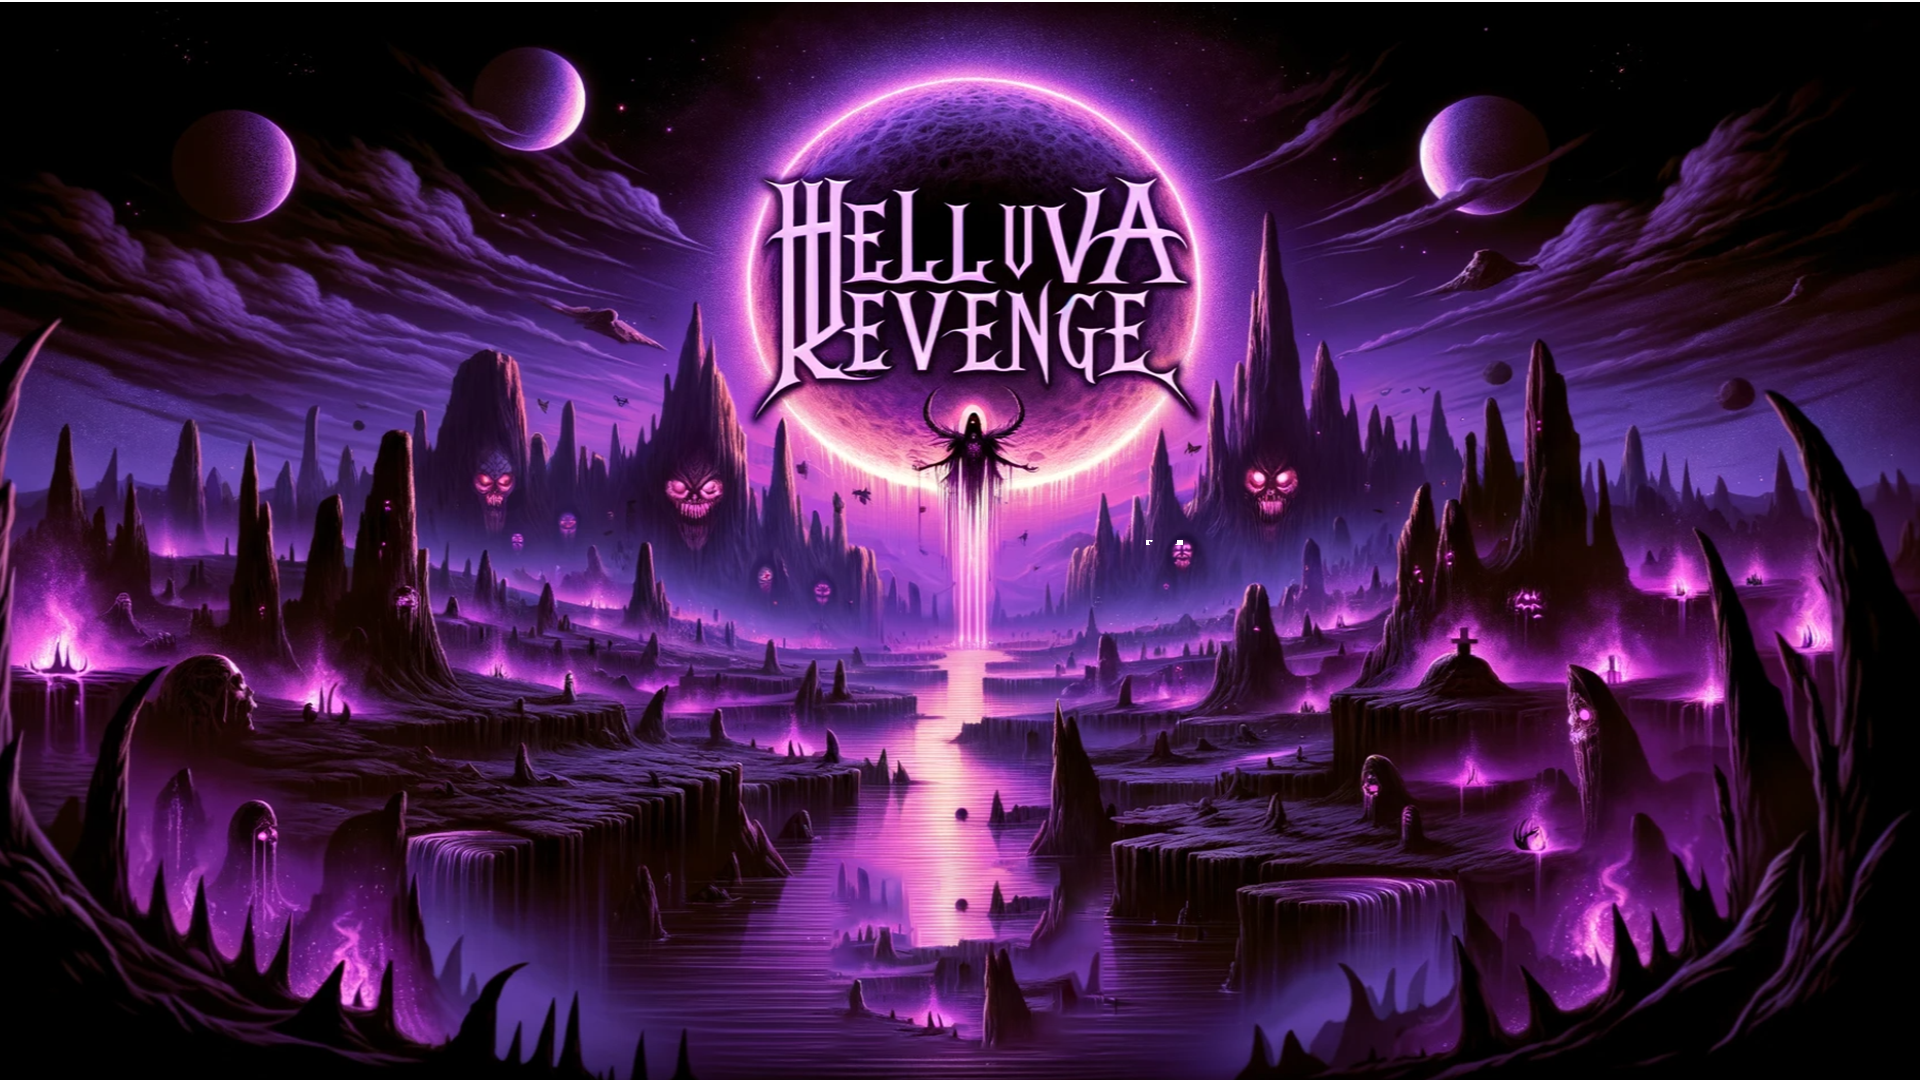
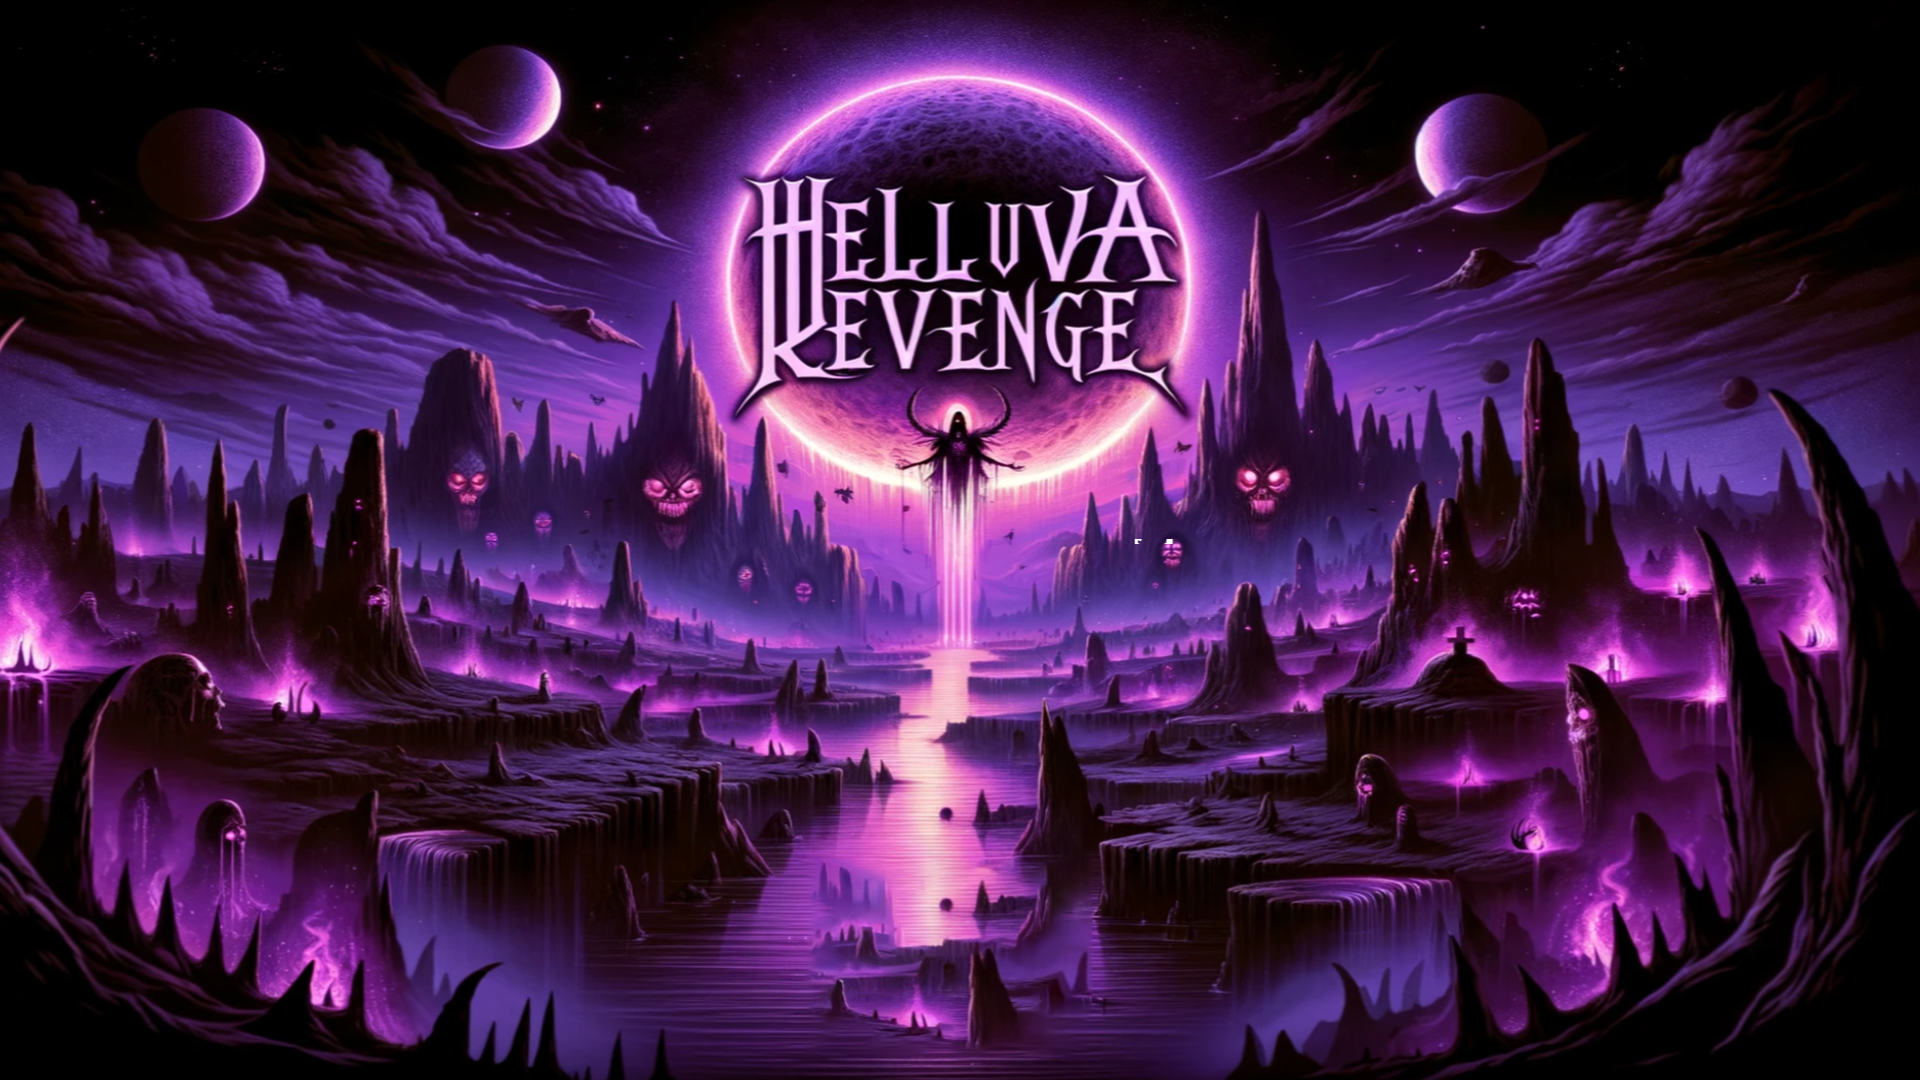
FIX : Button et background
- Fix de l'état des buttons lorsqu'on clique dessus
- Background recentré

diff --git a/GameObjectLib/src/Scenes/SceneMainMenu.cpp b/GameObjectLib/src/Scenes/SceneMainMenu.cpp
@@ -69,10 +69,10 @@ void SceneMainMenu::CreateSceneButtonsMenu()
 	//creditsButton = BuilderGameObject::CreateButtonGameObject("Credits", widthScreen / 1.1, heightScreen / 10, 18);
 	
 	backButton = BuilderGameObject::CreateButtonGameObject("back", widthScreen / 10, heightScreen / 10, 0.5f, 0.5f, 0, 0, 1, 3, AssetManager::GetAsset("ButtonsMenu"), 40);
-	englishButton = BuilderGameObject::CreateButtonGameObject("englishButton", widthScreen / 3, heightScreen / 1.2, 0.5f, 0.5f, 0, 0, 1, 3, AssetManager::GetAsset("ButtonsMenu"), 40);
-	frenchButton = BuilderGameObject::CreateButtonGameObject("frenchButton", widthScreen / 1.2, heightScreen / 1.2, 0.5f, 0.5f, 0, 0, 1, 3, AssetManager::GetAsset("ButtonsMenu"), 40);
-	sliderFPS = BuilderGameObject::CreateSliderGameObject("sliderFps", widthScreen / 2, heightScreen / 2, 1200, 40, 50, 50, 20, WindowManager::GetFps(), WindowManager::GetMinFps(), WindowManager::GetMaxFps());
-	sliderVolume = BuilderGameObject::CreateSliderGameObject("sliderVolume", widthScreen / 2, heightScreen / 1.5, 1200, 40, 50, 50, 20, AudioManager::GetVolume(), AudioManager::GetMaxVolume());
+	englishButton = BuilderGameObject::CreateButtonGameObject("englishButton", widthScreen / 2.4, heightScreen / 1.2, 0.5f, 0.5f, 0, 0, 1, 3, AssetManager::GetAsset("ButtonsMenu"), 40);
+	frenchButton = BuilderGameObject::CreateButtonGameObject("frenchButton", widthScreen / 1.7, heightScreen / 1.2, 0.5f, 0.5f, 0, 0, 1, 3, AssetManager::GetAsset("ButtonsMenu"), 40);
+	sliderFPS = BuilderGameObject::CreateSliderGameObject("slider Fps", widthScreen / 2, heightScreen / 2, 1200, 40, 50, 50, 20, WindowManager::GetFps(), WindowManager::GetMinFps(), WindowManager::GetMaxFps());
+	sliderVolume = BuilderGameObject::CreateSliderGameObject("slider Volume", widthScreen / 2, heightScreen / 1.5, 1200, 40, 50, 50, 20, AudioManager::GetVolume(), AudioManager::GetMaxVolume());
 	//signupLoginButton = CreateButtonGameObject("Signup Login", widthScreen / 1.2, heightScreen / 1.2, 30)
 	CameraManager::SetCenter(widthScreen / 2, heightScreen / 2);
 }
@@ -82,18 +82,21 @@ void SceneMainMenu::Update(const float& _delta)
 	Scene::Update(_delta);
 	if (isFadeIn)
 	{
-		if(FadeIn(_delta)) isFadeIn = false;
+		playButton->SetActive(false);
+		worldButton->SetActive(false);
+		optionsButton->SetActive(false);
+		quitButton->SetActive(false);
+		if (FadeIn(_delta))
+		{
+			isFadeIn = false;
+			playButton->SetActive(true);
+			worldButton->SetActive(true);
+			optionsButton->SetActive(true);
+			quitButton->SetActive(true);
+		}
 	} 
 	else
 	{
-		if (LanguageManager::GetInstance()->GetLanguage() == "English")
-		{
-			englishButton->GetComponent<Button>()->SetState(Button::Clicked);
-		}
-		if (LanguageManager::GetInstance()->GetLanguage() == "French")
-		{
-			frenchButton->GetComponent<Button>()->SetState(Button::Clicked);
-		}
 		if (playButton->GetComponent<Button>()->IsClicked() || isFadeOut)
 		{
 			isFadeOut = true;
@@ -132,6 +135,7 @@ void SceneMainMenu::Update(const float& _delta)
 			LanguageManager* manager = LanguageManager::GetInstance();
 			manager->SetLanguage("English");
 			manager->GetButton();
+			frenchButton->GetComponent<Button>()->SetState(Button::Normal);
 
 		}
 		else if (frenchButton->GetComponent<Button>()->IsClicked())
@@ -140,6 +144,7 @@ void SceneMainMenu::Update(const float& _delta)
 			LanguageManager* manager = LanguageManager::GetInstance();
 			manager->SetLanguage("Francais");
 			manager->GetButton();
+			englishButton->GetComponent<Button>()->SetState(Button::Normal);
 		}
 	/*	else if (successButton->GetComponent<Button>()->IsClicked())
 		{
@@ -205,6 +210,16 @@ void SceneMainMenu::ActiveOption(const bool& _state)
 	this->englishButton->SetActiveAndVisible(_state);
 	this->frenchButton->SetActiveAndVisible(_state);
 	option = _state;
+	if (LanguageManager::GetInstance()->GetLanguage() == "English")
+	{
+		englishButton->GetComponent<Button>()->SetState(Button::Clicked);
+		frenchButton->GetComponent<Button>()->SetState(Button::Normal);
+	}
+	if (LanguageManager::GetInstance()->GetLanguage() == "French")
+	{
+		frenchButton->GetComponent<Button>()->SetState(Button::Clicked);
+		englishButton->GetComponent<Button>()->SetState(Button::Normal);
+	}
 }
 
 SceneMainMenu::~SceneMainMenu()

diff --git a/GameObjectLib/src/Scenes/SceneOpening.cpp b/GameObjectLib/src/Scenes/SceneOpening.cpp
@@ -11,7 +11,7 @@ void SceneOpening::Preload()
 {
     Scene::Preload();
     AssetManager::AddAsset("HelluvaStudioLogo", "Assets/Graphics/UI/Icons/Helluva_Logo.png");
-    AssetManager::AddAsset("Pegi", "Assets/Graphics/UI/Icons/PEGI_16.png");
+    AssetManager::AddAsset("HellEngine", "Assets/Graphics/UI/Icons/HellEngine.png");
     AssetManager::AddAsset("Warning", "Assets/Graphics/UI/Icons/warning_content.jpg");
 }
 
@@ -27,11 +27,11 @@ void SceneOpening::Create()
     spriteLogo->setScale(1.2, 1.2);
     
    
-    sf::Sprite* spritePegi_16 = new sf::Sprite();
-    spritePegi_16->setTexture(*AssetManager::GetAsset("Pegi"));
-    spritePegi_16->setPosition(widthWindow / 2, heightWindow / 2);
-    spritePegi_16->setOrigin(spritePegi_16->getLocalBounds().width / 2, spritePegi_16->getLocalBounds().height / 2);
-    spritePegi_16->setScale(0.3, 0.3);
+    sf::Sprite* spriteEngine = new sf::Sprite();
+    spriteEngine->setTexture(*AssetManager::GetAsset("HellEngine"));
+    spriteEngine->setPosition(widthWindow / 2, heightWindow / 2);
+    spriteEngine->setOrigin(spriteEngine->getLocalBounds().width / 2, spriteEngine->getLocalBounds().height / 2);
+    spriteEngine->setScale(1.2, 1.2);
 
     sf::Sprite* spriteWarning = new sf::Sprite();
     spriteWarning->setTexture(*AssetManager::GetAsset("Warning"));
@@ -40,7 +40,7 @@ void SceneOpening::Create()
     spriteWarning->setScale(1.3, 1.3);
 
     sprites.push_back(spriteLogo);
-    sprites.push_back(spritePegi_16);
+    sprites.push_back(spriteEngine);
     sprites.push_back(spriteWarning);
     fadeInTimeDefault = 0.2f;
     fadeOutTimeDefault = 0.3f;
@@ -61,7 +61,7 @@ void SceneOpening::Delete()
     }
     sprites.clear();
     AssetManager::DeleteAsset("HelluvaStudioLogo");
-    AssetManager::DeleteAsset("Pegi");
+    AssetManager::DeleteAsset("HellEngine");
     AssetManager::DeleteAsset("Warning");
 }
 

diff --git a/GameObjectLib/src/BuildesGameObject/BuilderEntityGameObject.cpp b/GameObjectLib/src/BuildesGameObject/BuilderEntityGameObject.cpp
@@ -20,6 +20,7 @@
 #include <Components/Shapes/Rectangle.h>
 #include <Components/Shapes/Triangle.h>
 #include "Components/Transform.h"
+#include "Components/Lantern.h"
 
 #include <Components/Shapes/Circle.h>
 #include <Components/ComponentsGame/ExplosionCircle.h>
@@ -669,3 +670,23 @@ GameObject* BuilderEntityGameObject::CreateFireBallEnemy(const std::string& _nam
 	return gameObject;
 };
 
+
+GameObject* BuilderEntityGameObject::CreateLanternGameObject(const std::string& _name, sf::Texture* _textureLantern, const float& _scalex, const float& _scaley, const Maths::Vector2f& _position)
+{
+	GameObject* gameObject = SceneManager::GetActiveGameScene()->CreateGameObject(_name);
+	gameObject->SetPosition(_position);
+	gameObject->SetScale(Maths::Vector2f(_scalex, _scaley));
+	gameObject->SetDepth(0.7f);
+
+	Sprite* sprite = gameObject->CreateComponent<Sprite>();
+	sprite->SetName("lantern");
+	sprite->SetTexture(_textureLantern);
+
+	RigidBody2D* rigidBody2D = gameObject->CreateComponent<RigidBody2D>();
+	rigidBody2D->SetSize(sprite->GetBounds().x, sprite->GetBounds().y);
+	rigidBody2D->SetIsGravity(false);
+
+	Lantern* lantern = gameObject->CreateComponent<Lantern>();
+
+	return gameObject;
+}

diff --git a/GameObjectLib/include/Components/UIElements/Button.h b/GameObjectLib/include/Components/UIElements/Button.h
@@ -28,7 +28,25 @@ public:
 	bool IsClicked();
 	bool IsClicked(const Sprite* _sprite);
 	bool IsOver(const Sprite* _sprite);
-	void SetState(const StateButton& _state) { state = _state; }
+	inline void SetState(const StateButton& _state) {
+		state = _state;
+		Sprite* sprite = GetOwner()->GetComponent<Sprite>();
+		if (sprite)
+		{
+			if (state == Button::StateButton::Clicked)
+			{
+				sprite->SetRecTexture(0, 2, sprite->GetBounds().x, sprite->GetBounds().y);
+			}
+			else if (state == Button::StateButton::Hover)
+			{
+				sprite->SetRecTexture(0, 1, sprite->GetBounds().x, sprite->GetBounds().y);
+			}
+			else if (state == Button::StateButton::Normal)
+			{
+				sprite->SetRecTexture(0, 0, sprite->GetBounds().x, sprite->GetBounds().y);
+			}
+		}
+	}
 
 	sf::RectangleShape& GetRectangleShape() {
 		return rectangle;

diff --git a/GameObjectLib/include/BuildersGameObject/BuilderEntityGameObject.h b/GameObjectLib/include/BuildersGameObject/BuilderEntityGameObject.h
@@ -29,6 +29,8 @@ public:
 	static GameObject* CreateProtectionBallGameObject(const std::string& name, float _x, float _y, float scalex, float scaley, sf::Texture* _texture, const int& _number, GameObject* _hades, int _randSpawn);
 	static GameObject* CreateProtectionGameObject(const std::string& name, float _x, float _y, float scalex, float scaley, sf::Texture* _texture);
 	static GameObject* CreateFireBallEnemy(const std::string& _name, sf::Texture* _textureBullet, GameObject* _enemy, const float& _scalex, const float& _scaley, const float& _damage, const float& _speed, const Maths::Vector2f& _position);
+	
+	static GameObject* CreateLanternGameObject(const std::string& _name, sf::Texture* _textureLantern, const float& _scalex, const float& _scaley, const Maths::Vector2f& _position);
 
 };
 

diff --git a/GameObjectLib/src/Scenes/ScenesGame/SceneGameSpawn.cpp b/GameObjectLib/src/Scenes/ScenesGame/SceneGameSpawn.cpp
@@ -25,6 +25,7 @@ void SceneGameSpawn::Preload()
 	AssetManager::AddAsset("BackgroundBoss", "Assets/Graphics/Maps/bossRoom.png");
 	AssetManager::AddAsset("roarHades", "Assets/Enemy/Hades/demon-attack-no-breath.png");
 	AssetManager::AddAsset("idleHades", "Assets/Enemy/Hades/demon-idle.png");
+	AssetManager::AddAsset("NightmareGalloping", "Assets/Enemy/Nightmare/nightmare-galloping.png");
 }
 
 void SceneGameSpawn::Create() 
@@ -75,6 +76,15 @@ void SceneGameSpawn::Update(const float& _delta)
 	else
 	{
 		textDialogue->SetVisible(true);
+	}
+
+	if (!textDialogue->GetActive())
+	{
+		isFadeOut = true;
+		if (FadeOut(_delta))
+		{
+			SceneManager::RunScene("ScenesTest");
+		}
 	}
 }
 

diff --git a/GameObjectLib/include/Components/Entity/Character.h b/GameObjectLib/include/Components/Entity/Character.h
@@ -14,12 +14,14 @@ public:
 	Direction GetDirection() const { return direction; }
 	bool GetIsCenter() const { return centerCameraOnPlayer; }
 	void SetCenterCamera(const bool& _state) { centerCameraOnPlayer = _state; }
-
+	void AddSouls(const unsigned int& _number) { souls += _number; }
+	unsigned int GetSouls() const { return souls; }
+	
 private:
 	Direction direction;
 	bool directionCharacter;
 	bool centerCameraOnPlayer = true;
-
+	unsigned int souls = 0;
 
 };
 

diff --git a/GameObjectLib/src/Managers/AudioManager.cpp b/GameObjectLib/src/Managers/AudioManager.cpp
@@ -1,8 +1,8 @@
 #include "Managers/AudioManager.h"
 #include <iostream>
 
-float AudioManager::volume = 0.f;
-float AudioManager::maxVolume = 0.f;
+float AudioManager::volume = 100.f;
+float AudioManager::maxVolume = 100.f;
 sf::Music* AudioManager::music = nullptr;
 sf::Sound* AudioManager::sound = nullptr;
 std::map<std::string, sf::Music*> AudioManager::musics;

diff --git a/GameObjectLib/src/Engine.cpp b/GameObjectLib/src/Engine.cpp
@@ -52,7 +52,7 @@ void Engine::Init() const
 void Engine::Run() const
 {
 	//SceneManager::RunScene("SceneOpening");
-	SceneManager::RunScene("SceneGameSpawn");
+	SceneManager::RunScene("SceneOpening");
 	while (!shouldQuit)
 	{
 		TimeManager::Update();

diff --git a/GameObjectLib/src/Managers/WindowManager.cpp b/GameObjectLib/src/Managers/WindowManager.cpp
@@ -2,7 +2,7 @@
 
 #include <SFML/Graphics/RenderWindow.hpp>
 
-int WindowManager::fps = 60;
+int WindowManager::fps = 240;
 int WindowManager::minFps = 30;
 int WindowManager::maxFps = 240;
 sf::RenderWindow* WindowManager::window = nullptr;

diff --git a/GameObjectLib/src/Components/UIElements/Text.cpp b/GameObjectLib/src/Components/UIElements/Text.cpp
@@ -149,7 +149,7 @@ void Text::Update(const float& _delta)
 	{
 		if (currentTime >= pauseDuration)
 		{
-			GetOwner()->SetVisible(false);
+			GetOwner()->SetActiveAndVisible(false);
 		}
 	}
 	currentTime += _delta;
